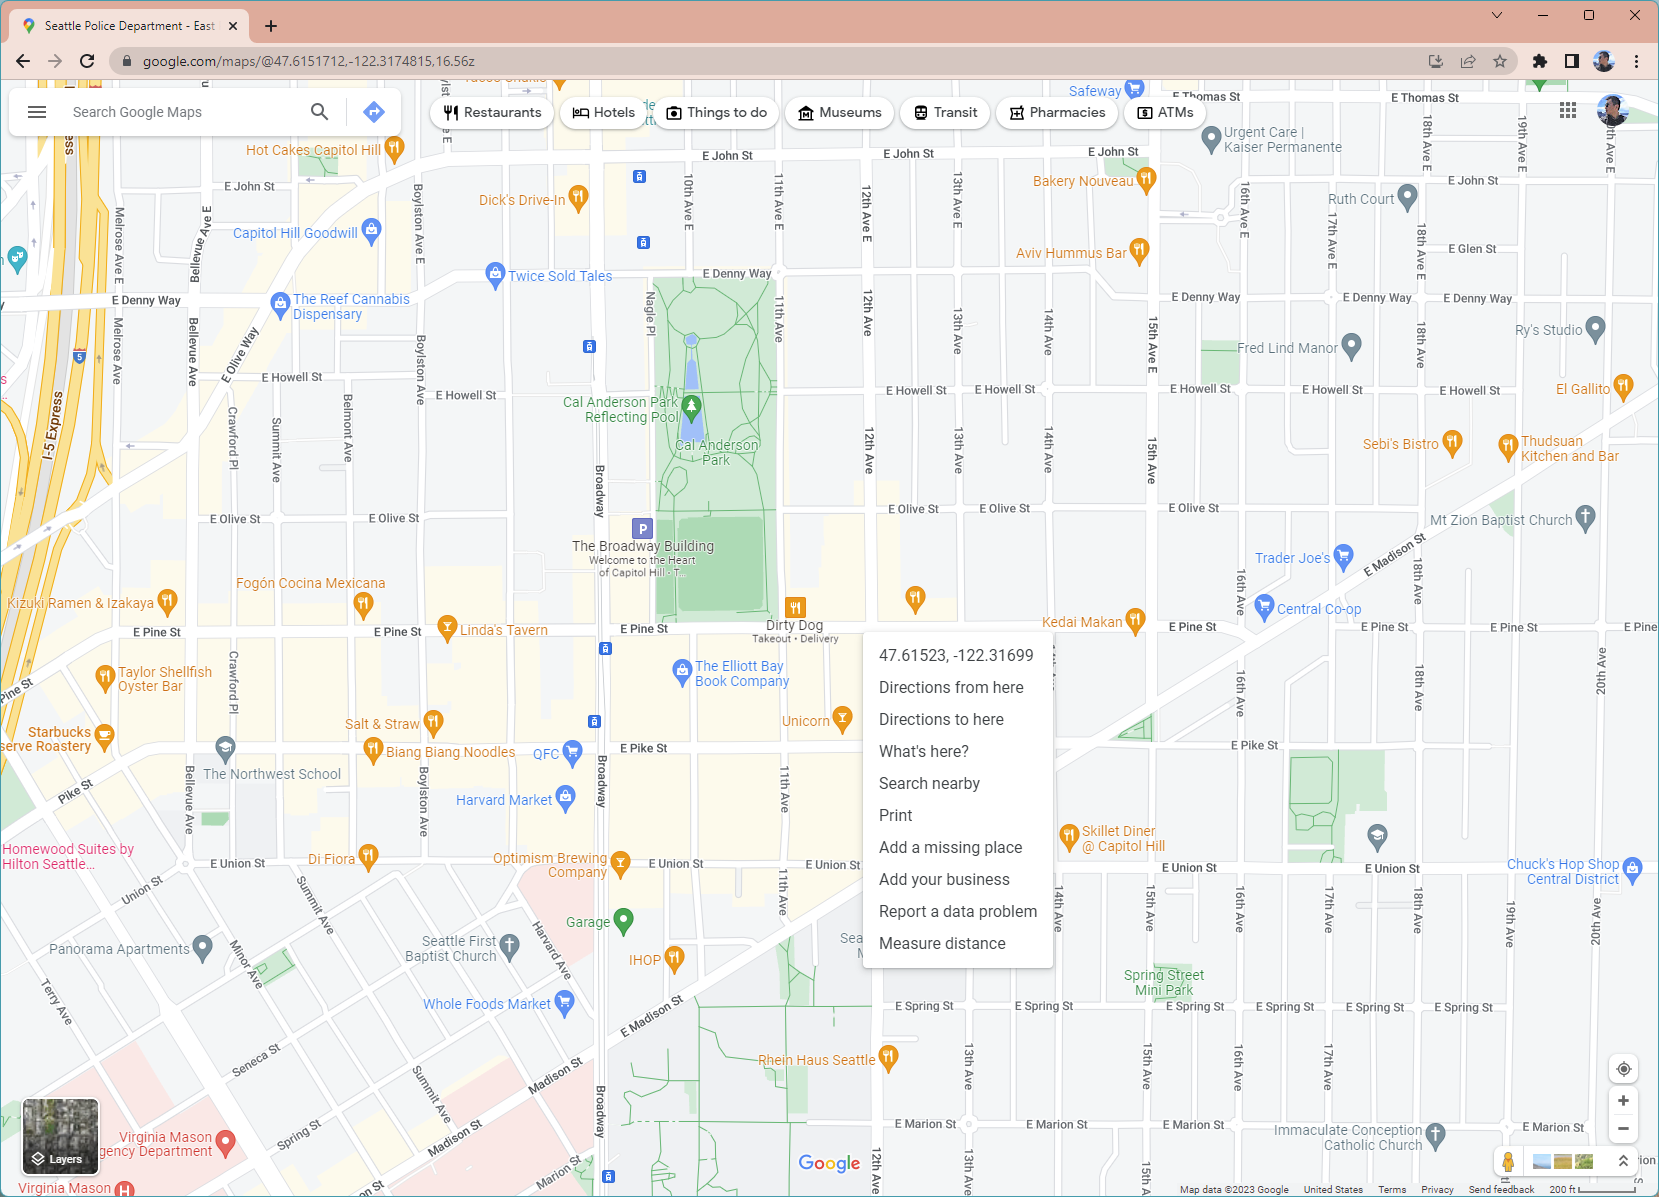
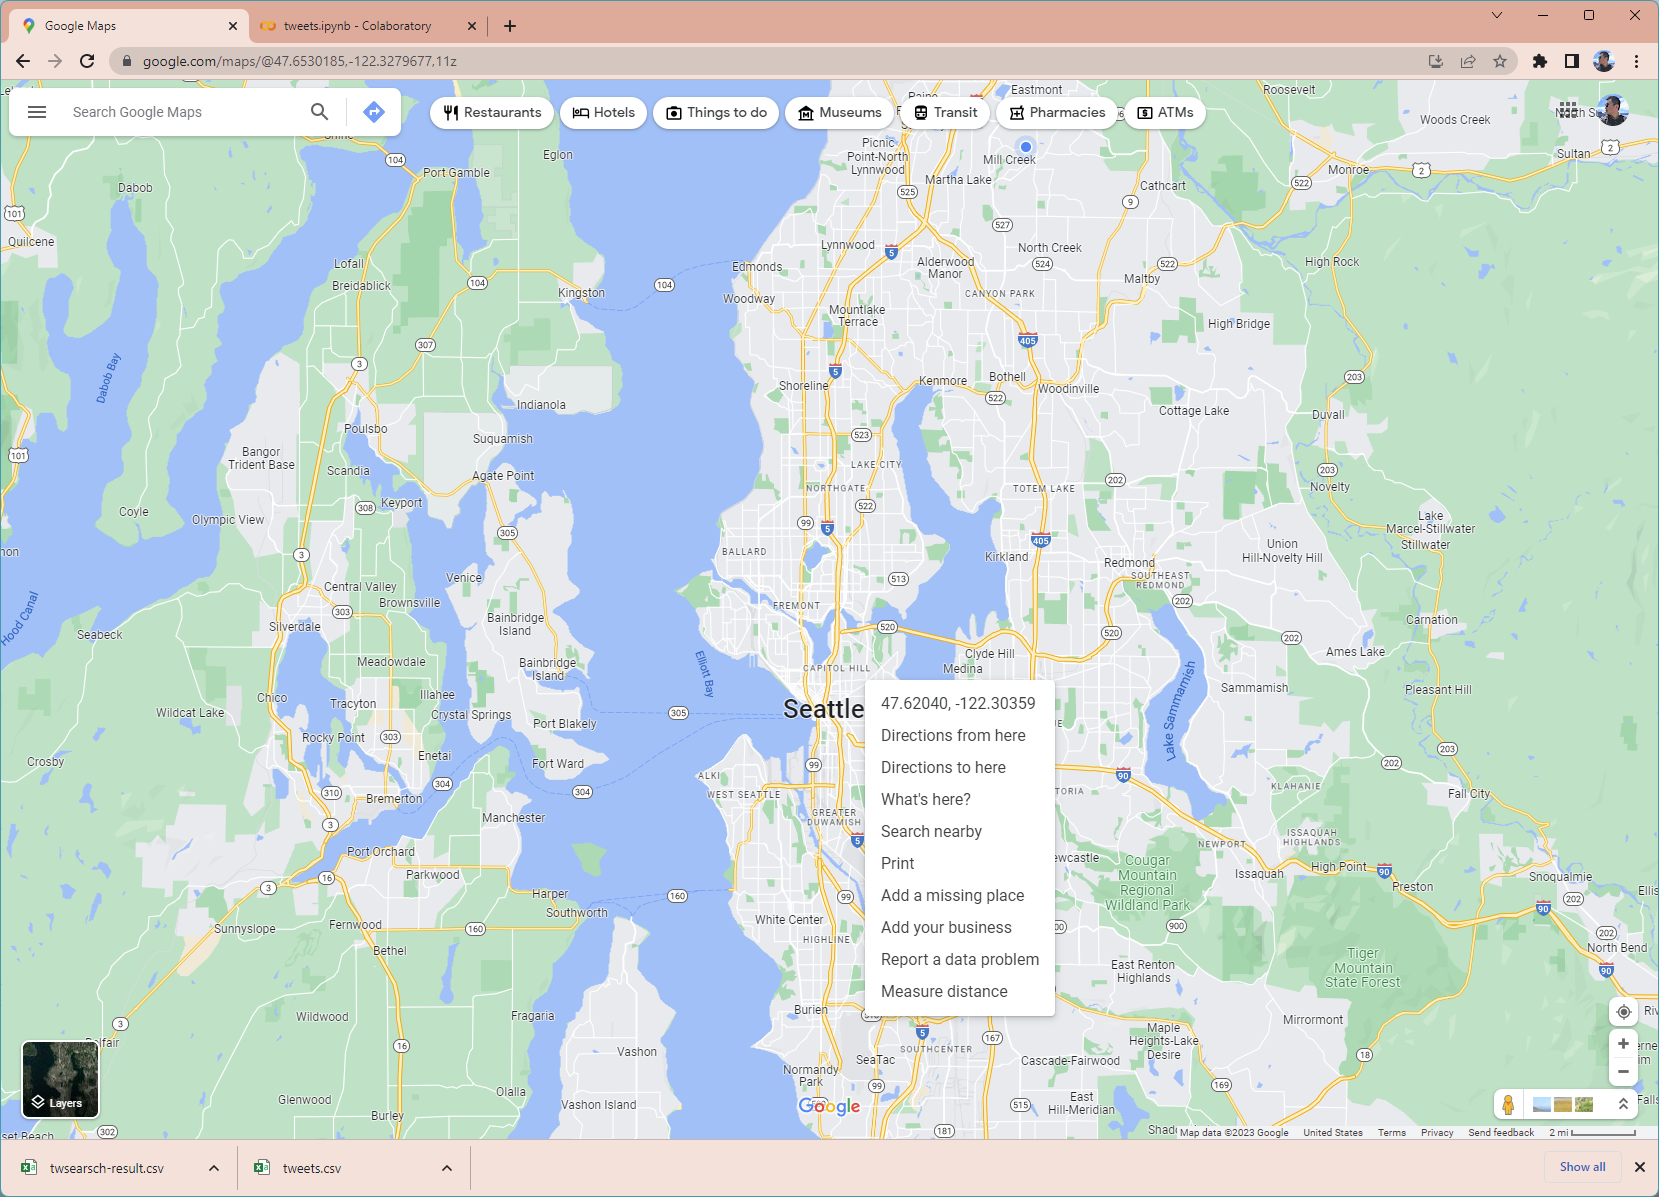
lab updates the name of the results

diff --git a/labs/lab02/readme.md b/labs/lab02/readme.md
@@ -133,7 +133,7 @@ In the main procedure, once we acquire the consumer key and access token, we can
 Determine where on the google drive you want to store the output csv data. A CSV file is a delimited text file that uses a comma to separate values. Each line of the file is a data record. Each record consists of one or more fields, separated by commas.
 
 ```python
-output_file = '/gdrive/My Drive/geotweets.csv'
+output_file = '/gdrive/My Drive/twstream-result.csv'
 ```
 
 Copy and paste the keys and tokens you received into corresponding parameters in the code below:
@@ -246,7 +246,7 @@ Now, you should have a general idea of what the script does and how to change th
 
 2. Change the location parameter to filter specific tweets based on your interest. The location could be anywhere on this earth, but try to choose locations that are large enough to collect a sufficient amount of data. (If you are interested in Twitter data that are geo-tagged in the US, you do not need to change this parameter).
 
-3. Run each block of code in `twstream.ipynb`. Your collected data will be stored in `geotweets.csv` on your google drive.
+3. Run each block of code in `twstream.ipynb`. Your collected data will be stored in `twstream-result.csv` on your google drive.
 
 
 ## 4. Search historical tweets using locational information
@@ -294,17 +294,18 @@ api = tweepy.API(auth, wait_on_rate_limit=True)
 
 ## 4.2 Define the search term and search parameters
 
-Define the search term and the date_since date as search parameter. We plan to collect all the tweets containing the hashtag "#BLM" that were sent near the Police Office in Capitol Hill, Seattle when the movement of Capitol Hill Occupied Protest (CHOP) initiated. So, to do that, we define the search variables as below.
+Define the search term and the date_since date as search parameter. We plan to collect all the tweets containing "BLM" that were sent in larger Seattle since the movement of Capitol Hill Occupied Protest (CHOP) began. To do that, we define the search variables as below.
 
 ```python
-search_words = "#BLM"
-location = "47.615230293582556, -122.31699241321647,100mi"
+search_words = "BLM"
+# make sure there is no space between lat, long and the radius.
+location = "47.62039945423961,-122.30359179186148,15.8mi"
 date_since = "2020-6-9"
 ```
 
-As shown, the search term is `#BLM`, the start date is `June 8, 2020`. Now, we will need to identify a buffer area. All the tweets falling in the buffer will be captured. Specifically, 
+As shown, the search term is `#BLM`, the start date is `June 9, 2020`. Now, we will need to identify a buffer area. All the tweets falling in the buffer will be captured. Specifically, 
 
-- Open [Google maps](https://www.google.com/maps/@47.6156911,-122.3182621,16z) on your desktop browser, then navigate to the place where you plan to collect tweets from.
+- Open [Google maps](https://www.google.com/maps/@47.6368272,-122.2448836,11z) on your desktop browser, then navigate to the place where you plan to collect tweets from.
   
 - Right click on the location, a dropdown popup will appears, Click the latitude and longitude information on the first line of the popup.
   
@@ -314,14 +315,11 @@ As shown, the search term is `#BLM`, the start date is `June 8, 2020`. Now, we w
   
 -  To determine the radius, please right click on location again, then click the `measure distance` at the bottom of the dropdown menu.
 
--  Now, draw a line to estimate the radius. In my case, the radius is `2,000 feet`, which allows the buffer covers the area where the data will be collected.
+-  Now, draw a line to estimate the radius. In my case, the radius is `15.8 miles`, which allows the buffer covers the area where the data will be collected. So, the radius should be `15.8mi`. Notably, the API only supports the unit miles, so if your measure is in feet or other units, please convert it to mile.
 
 ![](img/measure.png)
 
 
-of the policy office. To do that open, on your desktop browser and navigate to the place where you want to collect the tweets.  That is the time and place the Capitol Hill Occupied Protest Zone was formed.
-
-Some times 
 ## 4.2 Data Harvest
 
 Then, we input the parameters to the tweepy harvesting cursor, and we want to get back at most 1000 tweets for one single query.
@@ -330,6 +328,7 @@ Then, we input the parameters to the tweepy harvesting cursor, and we want to ge
 # Collect tweets
 tweets = tweepy.Cursor(api.search, q=search_words, geocode=location, lang="en", since=date_since).items(1000)
 ```
+
 
 We first create an empty array to store the retrieved data. As how we process each video in the first crawler we designed, we use the similar strategy to process each tweet, and store them in a pandas data frame.
 
@@ -380,7 +379,7 @@ print("the csv has been downloaded to your local computer. The program has been 
 
 In the previous section, we developed a crawler for geotagged tweets. In this section, we will visualize the collected geotagged tweets data in the previous section using a GIS application `QGIS`. QGIS is a free and open-source cross-platform desktop geographic information system application that supports viewing, editing, and analysis of geospatial data. If you have not downloaded QGIS yet, please download the latest version [here](https://qgis.org/en/site/forusers/download.html).
 
-Under `lab02/assets` repository, you should have a CSV file named `tweets.csv`. Download this file and Store it somewhere that you can find and access easily.
+Under `lab02/assets` repository, you should have a CSV file named `twsearch-result.csv`. Download this file and store it somewhere that you can find and access easily.
 
 Now, let's open up your QGIS Desktop. When you first open QGIS, it should look like below. To create a new project, either click on the blank paper icon on the top left or press the shortcut key (Ctrl+N).
 
@@ -440,7 +439,7 @@ After registration, you can create a word cloud by pressing the "Create Now" But
 
 ![](img/frontpage.png)
 
-Open `geotweets.csv` in microsoft excel or other alternative spreadsheet software. Copy all the rows under the `text` column, and then paste the copied rows to the input text box on Word Art. You need to press the `import` button on the top left to open this text box. Once complete, please type `Import words`.
+Open `twsearch-result.csv` in microsoft excel or other alternative spreadsheet software. Copy all the rows under the `text` column, and then paste the copied rows to the input text box on Word Art. You need to press the `import` button on the top left to open this text box. Once complete, please type `Import words`.
 
 ![](img/import-box.png)
 
